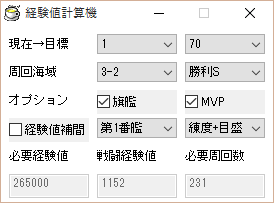
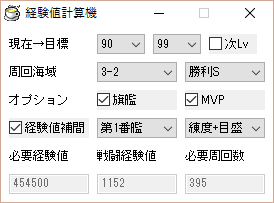
ヘルプを修正した

diff --git a/help/index.html b/help/index.html
@@ -14,7 +14,7 @@
 	</head>
 	<body>
 <!-- タイトル -->
-		<h1>おりこうさんな秘書 Ver.3.1.1</h1>
+		<h1>おりこうさんな秘書 Ver.3.2.0</h1>
 		Twitterアカウント：<a href="https://twitter.com/orikou_hisyo/">@orikou_hisyo</a>(報告用), <a href="https://twitter.com/YSRKEN/">@YSRKEN</a>(作者)<br>
 		公開ページ：<a href="http://www.vector.co.jp/soft/win95/game/se509326.html">http://www.vector.co.jp/soft/win95/game/se509326.html</a><br>
 		紹介動画：<a href="http://www.nicovideo.jp/watch/sm26755860">【艦これ】便利なスクショツール＋αを作ってみた</a><br>
@@ -113,6 +113,14 @@
 			<tr>
 				<td>alert_exp.wav</td>
 				<td><a href="#option">音声通知</a>を有効にした際に<strong>遠征</strong>で使用されるファイル。消しても構いません</td>
+			</tr>
+			<tr>
+				<td>alert_res.wav</td>
+				<td><a href="#option">音声通知</a>を有効にした際に<strong>戦闘判定画面</strong>で使用されるファイル。消しても構いません</td>
+			</tr>
+			<tr>
+				<td>alert_sel.wav</td>
+				<td><a href="#option">音声通知</a>を有効にした際に<strong>夜戦確認画面</strong>で使用されるファイル。消しても構いません</td>
 			</tr>
 			<tr>
 				<td>themeフォルダ</td>
@@ -219,7 +227,7 @@
 				</tr>
 				<tr>
 					<td>編成画面</td>
-					<td>編成の場面。第1～第4艦隊まで対応</td>
+					<td>編成の場面。第1～第4艦隊＋編成記録・展開まで対応</td>
 				</tr>
 				<tr>
 					<td>改装画面</td>
@@ -251,7 +259,7 @@
 				</tr>
 				<tr>
 					<td>任務画面</td>
-					<td>任務一覧が表示される画面。4ページ目まで対応</td>
+					<td>任務一覧が表示される画面。9ページ目まで対応</td>
 				</tr>
 				<tr>
 					<td>海域マップ</td>
@@ -284,6 +292,10 @@
 				<tr>
 					<td>戦果報告(遠征)</td>
 					<td>遠征帰還時の報告</td>
+				</tr>
+				<tr>
+					<td>基地航空隊</td>
+					<td>基地航空隊の編成</td>
 				</tr>
 				<tr>
 					<td>交戦形態</td>
@@ -365,6 +377,7 @@
 					<td>【トリミング】</td>
 					<td>編成画面が表示されている際は<strong>編成部分だけトリミングした画像</strong>を保存します。<br>
 					改装画面が表示されている際は<strong>艦娘部分だけトリミングした画像</strong>を保存します。<br>
+					基地航空隊編成画面が表示されている際は<strong>基地航空隊部分だけトリミングした画像</strong>を保存します。<br>
 					それ以外で、画面上部に資源状況が表示されている際は<strong>時刻と資源だけ纏められた画像</strong>を保存します。</td>
 				</tr>
 				<tr>
@@ -392,7 +405,7 @@
 			<img src="./images/dock.png" alt="各種タイマー" width="252" height="277">
 
 			<h3>ソート一覧作成機能</h3>
-			<p>　艦娘、もしくは装備の一覧画像を作成する機能です。<br>
+			<p>　艦娘・装備・基地航空隊の一覧画像を作成する機能です。<br>
 			　まず、作成したい方に合わせてコンボボックスから「艦娘」か「装備」かを選択しておきます。<br>
 			　次に、前者の場合は編成から「変更」を押した際に表示される<strong>ソート画面</strong>、後者の場合は工廠の<strong>廃棄画面</strong>を艦これ側で開いておきます。<br>
 			　その状態で「追加」ボタンを押すと、艦娘もしくは装備の一覧がリストに追加されます(リストには「記録した日付」で表示)。<br>
@@ -400,7 +413,8 @@
 			　そうして順番を調整した後、「出力：X列」で列数を決めてから「保存」ボタンを押せばpicフォルダに保存できます。<br>
 			　なお、<strong>「入力順」モードではそのままコピペ</strong>してまとめられますが、「ソート」モードでは「艦娘」か「装備」かで<strong>挙動が変わります</strong>。<br>
 			・「艦娘」モードでは、まず<strong>艦種毎にまとめた後、レベル降順</strong>で並べられます。<br>
-			・「装備」モードでは、<strong>改修の☆が付いているものか、艦載機の熟練度が最大の状態(>>)であるもの</strong>をまとめて並べられます。</p>
+			・「装備」モードでは、<strong>改修の☆が付いているものか、艦載機の熟練度が最大の状態(>>)であるもの</strong>をまとめて並べられます。<br>
+			・「基地」モードでは、<strong>基地航空隊を最大3つまで横に並べて保存します</strong>。</p>
 			<img src="./images/sort_list.png" alt="ソート一覧作成機能" width="362" height="343">
 
 			<h3>資材ログ・資材グラフ機能</h3>
@@ -415,6 +429,7 @@
 			<h3>経験値計算機</h3>
 			<p>　Lv.XからLv.Yまで上げる際にどれだけの経験値が必要かを計算します。<br>
 			　レベリングで稼ぐとした場合、どれだけ周回する必要があるかも計算できます。<br>
+			　「次Lv」にチェックを入れると、目標練度が現在練度の1つ次の値になるように調整されます。<br>
 			　なお、「経験値補間」にチェックを入れると、<strong>編成画面で表示されている艦娘について、その練度と経験値を読み取って、画面に反映する</strong>ことが出来ます！</p>
 			<img src="./images/exp_calc.png" alt="経験値計算機" width="274" height="203">
 
@@ -457,6 +472,7 @@
 			<p>　このソフトウェアの設定および内部で記録された画像は、ソフト終了時および定期的にセーブ<strong>されます</strong>。<br>
 			　セーブデータ(<a href="../save/save.ini">save.ini</a>および<a href="../save/buffer.png">buffer.png</a>)およびsupply.datは、ソフト起動時に自動で読み込まれます。<br>
 			　セーブデータを違うVerのおり秘書に移した場合、ある程度は修正できますが<strong>完全な互換性は保証されない</strong>のでご容赦ください。<br>
+			　(なるべく上位互換……つまり<strong>Verの新しいものに移した際は安全</strong>なようにしています)
 			<p><a href="#howto">↑操作方法へ戻る</a></p>
 		<h2><a name="option">オプション</a></h2>
 			<img src="./images/option.png" alt="オプション画面" width="362" height="259">
@@ -804,6 +820,15 @@
 				<th abbr="変更箇所">変更箇所</th>
 			</tr>
 			<tr>
+				<td>Ver.3.2.0</td>
+				<td>2016/06/01</td>
+				<td>・経験値計算機に「次Lv」のチェックボックスを導入した。また、練度変更時の挙動を一部修正した。<br>
+				・<strong>基地航空隊設定のシーン認識・【トリミング】・まとめ画像作成機能を実装した。</strong><br>
+				・編成プリセット画面もシーン認識(記録)対象に加えるようにした。<br>
+				・入渠ドックに艦娘が存在しなくとも、カウンターがリセットされないことがある不具合を修正した。<br>
+				・<strong>明石タイマーの挙動を、本家仕様に合わせて大幅に変更した。</strong></td>
+			</tr>
+			<tr>
 				<td>Ver.3.1.1</td>
 				<td>2016/05/26</td>
 				<td>・資材データが存在しない場合に異常終了する不具合を修正した。</td>
@@ -1122,7 +1147,7 @@
 <!-- 著作権について -->
 		<h1><a name="copyright">著作権について</a></h1>
 		<div><dl>
-			<dt>ソフト名</dt><dd>おりこうさんな秘書 Ver.3.1.0</dd>
+			<dt>ソフト名</dt><dd>おりこうさんな秘書 Ver.3.2.0</dd>
 			<dt>種別</dt><dd>フリーウェア</dd>
 			<dt>種類</dt><dd>攻略・プレイ支援</dd>
 			<dt>開発者</dt><dd>YSR</dd>
@@ -1139,7 +1164,7 @@
 
 <!-- コメント -->
 		<h1><a name="comment">コメント</a></h1>
-		<p><a href="https://codeiq.jp/magazine/2016/03/39291/">「はしれ！コード学園」のC#ちゃん</a>が<strong>鹿島に見えて</strong>辛い</p>
+		<p>この前の親潮ゲットと同時に、<strong>全艦コンプリートを達成</strong>しました！</p>
 		<p><a href="#index">↑目次へ戻る</a></p>
 		<hr>
 
